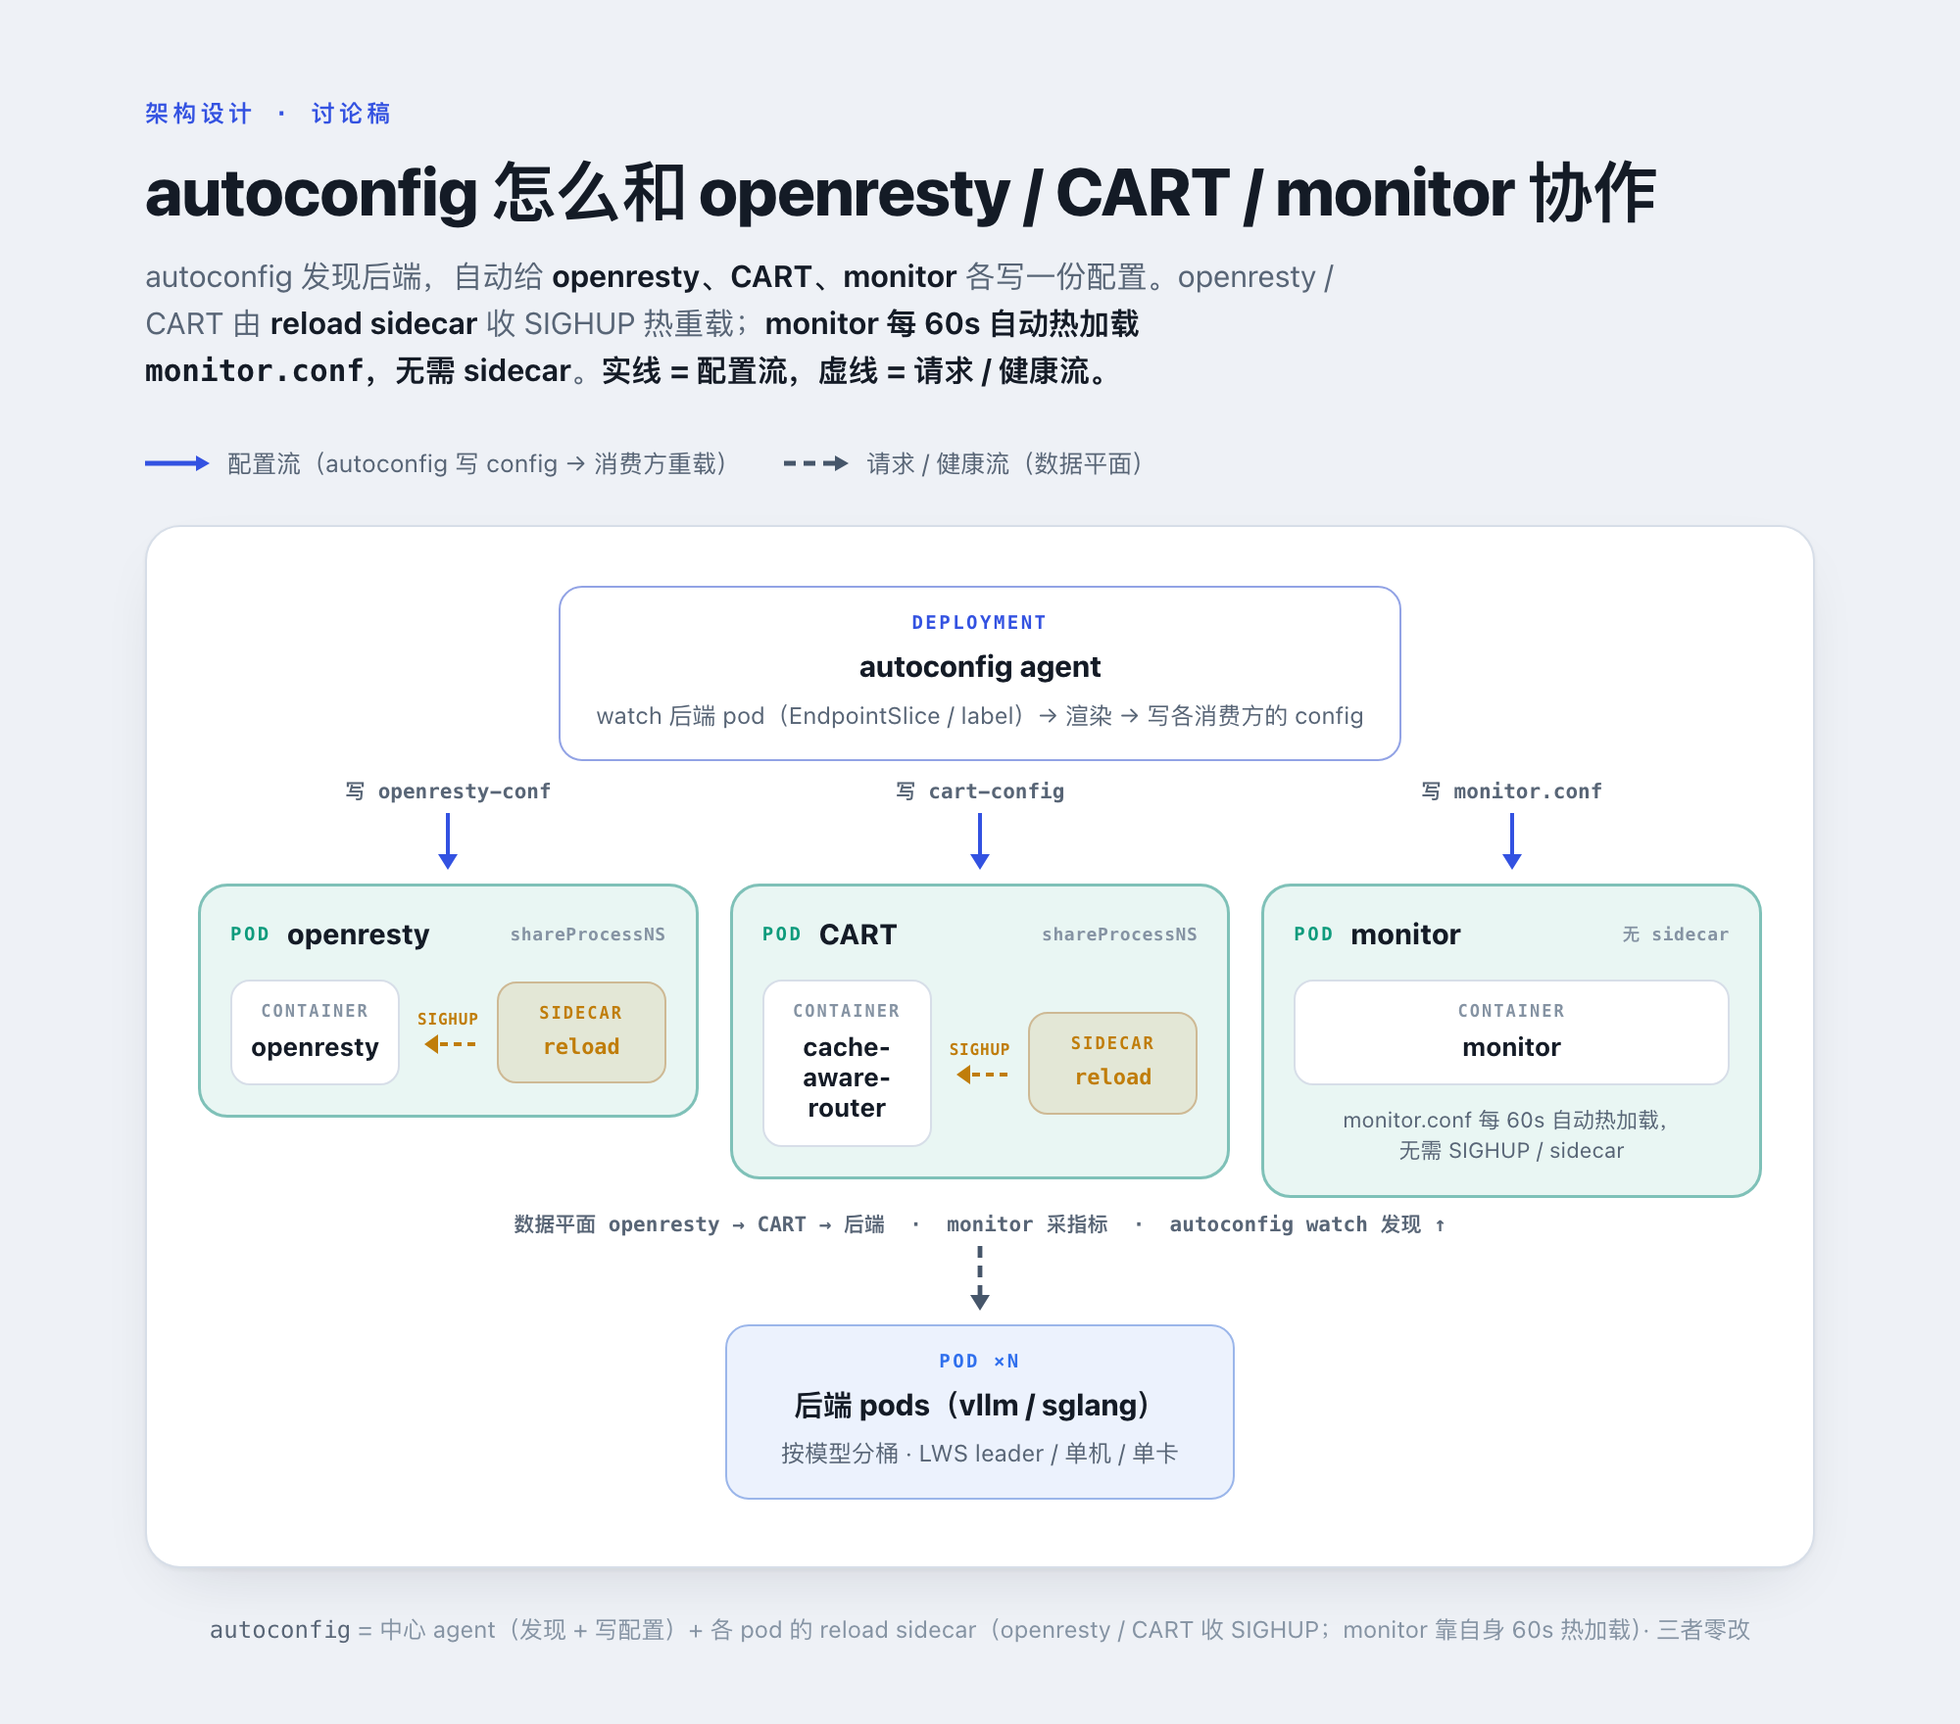
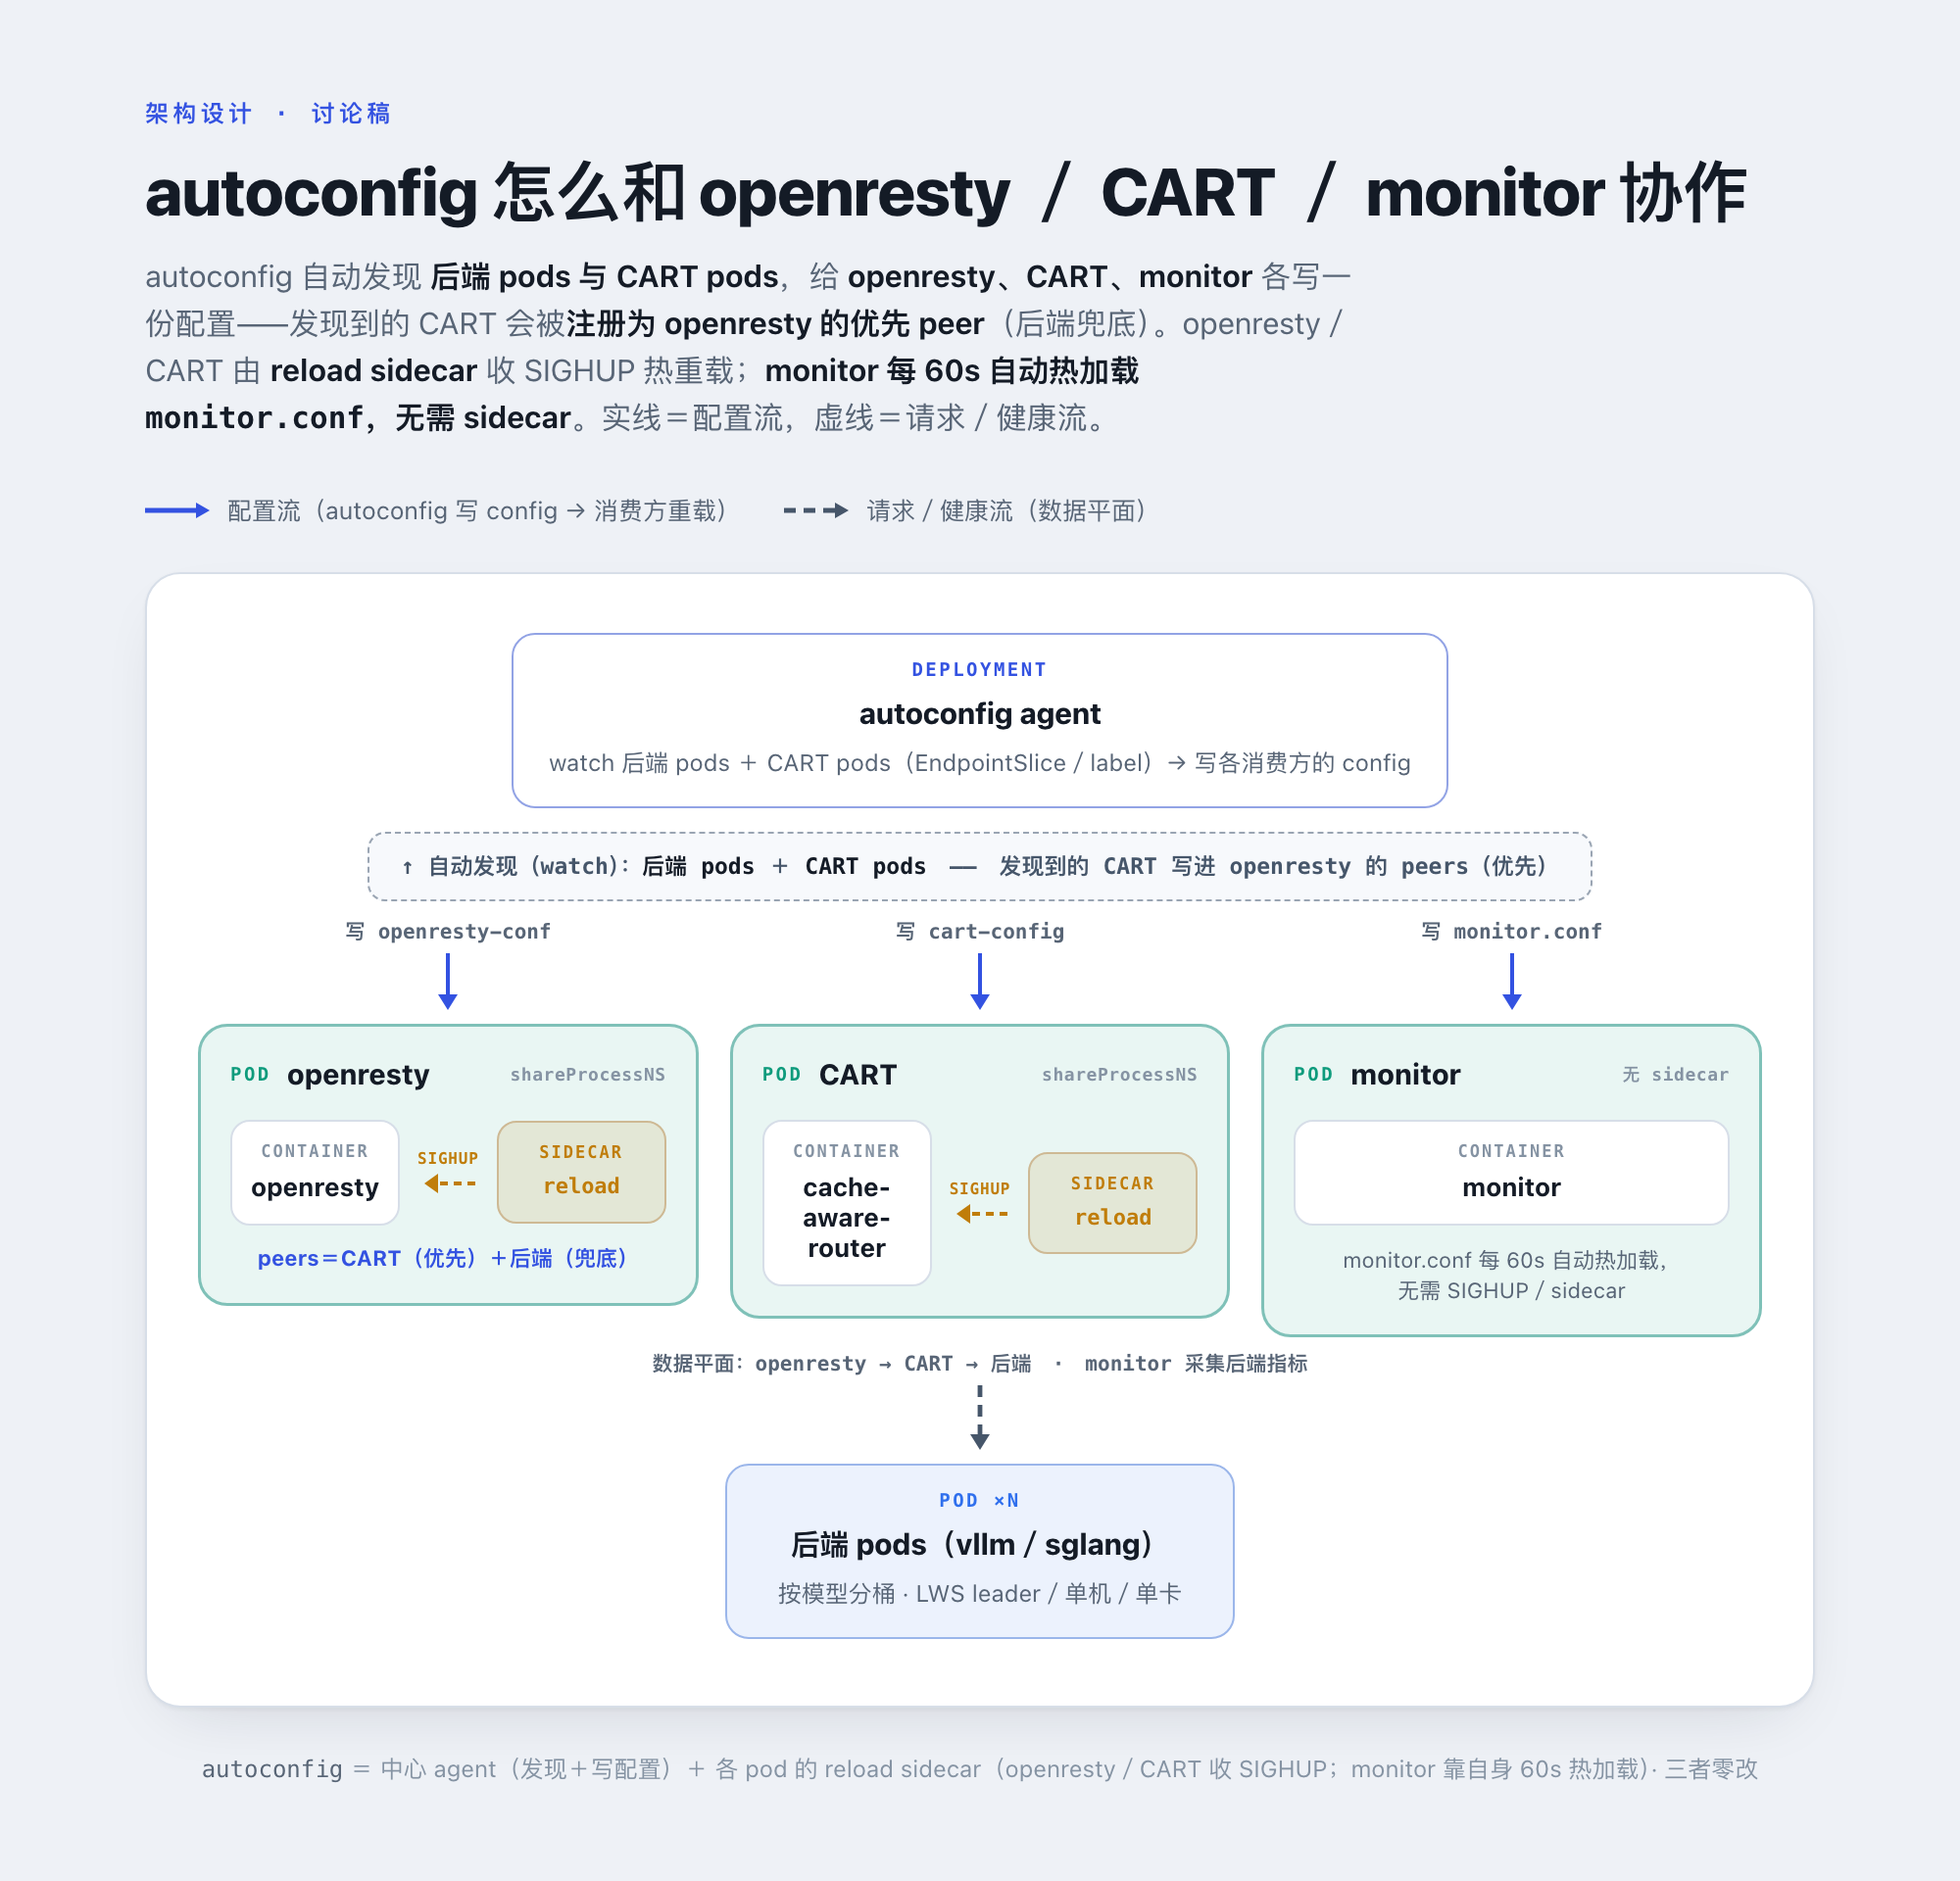
docs: 架构图显式画出「autoconfig 自动发现 CART → 注册进 openresty peers」+ 标点改中文全角

diff --git a/docs/architecture.html b/docs/architecture.html
@@ -110,6 +110,10 @@
   .col .pod{width:100%;min-width:0;flex:none}
   .ctrs.one{grid-template-columns:1fr}
   .mnote{margin-top:10px;font-size:11px;color:var(--muted);text-align:center;line-height:1.4}
+  .discover{margin:12px auto 0;font:600 11.5px/1.5 ui-monospace,monospace;color:var(--data);text-align:center;
+    border:1px dashed color-mix(in srgb,var(--data) 42%,var(--line));border-radius:9px;padding:8px 16px;max-width:680px;background:var(--surface2)}
+  .discover b{color:var(--ink)}
+  .pod .mnote.peers{color:var(--accent);font-weight:700;margin-top:9px}
 
   footer{margin-top:22px;font-size:12px;color:var(--faint);text-align:center}
   footer .mono{color:var(--muted)}
@@ -123,12 +127,12 @@
 
 <div class="wrap">
   <p class="eyebrow">架构设计 · 讨论稿</p>
-  <h1>autoconfig 怎么和 openresty / CART / monitor 协作</h1>
-  <p class="lede">autoconfig 发现后端，自动给 <b>openresty、CART、monitor</b> 各写一份配置。openresty / CART 由 <b>reload sidecar</b> 收 SIGHUP 热重载；<b>monitor 每 60s 自动热加载 <span class="mono">monitor.conf</span>，无需 sidecar</b>。<b>实线 = 配置流，虚线 = 请求 / 健康流。</b></p>
+  <h1>autoconfig 怎么和 openresty ／ CART ／ monitor 协作</h1>
+  <p class="lede">autoconfig 自动发现 <b>后端 pods 与 CART pods</b>，给 <b>openresty、CART、monitor</b> 各写一份配置——发现到的 CART 会被<b>注册为 openresty 的优先 peer</b>（后端兜底）。openresty／CART 由 <b>reload sidecar</b> 收 SIGHUP 热重载；<b>monitor 每 60s 自动热加载 <span class="mono">monitor.conf</span>，无需 sidecar</b>。实线＝配置流，虚线＝请求／健康流。</p>
 
   <div class="legend">
     <span><svg width="34" height="10" viewBox="0 0 34 10"><line x1="0" y1="5" x2="26" y2="5" stroke="var(--accent)" stroke-width="2.4"/><path d="M26,1 L33,5 L26,9 Z" fill="var(--accent)"/></svg>配置流（autoconfig 写 config → 消费方重载）</span>
-    <span><svg width="34" height="10" viewBox="0 0 34 10"><line x1="0" y1="5" x2="26" y2="5" stroke="var(--data)" stroke-width="2.4" stroke-dasharray="6 4"/><path d="M26,1 L33,5 L26,9 Z" fill="var(--data)"/></svg>请求 / 健康流（数据平面）</span>
+    <span><svg width="34" height="10" viewBox="0 0 34 10"><line x1="0" y1="5" x2="26" y2="5" stroke="var(--data)" stroke-width="2.4" stroke-dasharray="6 4"/><path d="M26,1 L33,5 L26,9 Z" fill="var(--data)"/></svg>请求／健康流（数据平面）</span>
   </div>
 
   <div class="scene">
@@ -137,10 +141,13 @@
     <div class="box agent">
       <span class="kind">deployment</span>
       <div class="nm">autoconfig agent</div>
-      <div class="desc">watch 后端 pod（EndpointSlice / label）→ 渲染 → 写各消费方的 config</div>
+      <div class="desc">watch 后端 pods ＋ CART pods（EndpointSlice／label）→ 写各消费方的 config</div>
     </div>
 
-    <!-- three consumers: openresty / CART / monitor -->
+    <!-- discovery annotation: autoconfig 也发现 CART -->
+    <div class="discover">↑ 自动发现（watch）：<b>后端 pods</b> ＋ <b>CART pods</b>　——　发现到的 CART 写进 openresty 的 peers（优先）</div>
+
+    <!-- three consumers: openresty ／ CART ／ monitor -->
     <div class="cols3">
 
       <div class="col">
@@ -153,6 +160,7 @@
             <div class="hup"><span class="hl">SIGHUP</span><svg width="28" height="12" viewBox="0 0 28 12"><line x1="28" y1="6" x2="9" y2="6" stroke="currentColor" stroke-width="2" stroke-dasharray="4 3"/><path d="M9,1 L2,6 L9,11 Z" fill="currentColor"/></svg></div>
             <div class="ctr rl"><span class="clab">sidecar</span><div class="cnm">reload</div></div>
           </div>
+          <div class="mnote peers">peers＝CART（优先）＋后端（兜底）</div>
         </div>
       </div>
 
@@ -177,24 +185,24 @@
           <div class="ctrs one">
             <div class="ctr app"><span class="clab">container</span><div class="cnm">monitor</div></div>
           </div>
-          <div class="mnote">monitor.conf 每 60s 自动热加载，<br>无需 SIGHUP / sidecar</div>
+          <div class="mnote">monitor.conf 每 60s 自动热加载，<br>无需 SIGHUP／sidecar</div>
         </div>
       </div>
 
     </div>
 
     <!-- data / health arrow down to backends -->
-    <div class="down data"><span class="l">数据平面 openresty → CART → 后端 &nbsp;·&nbsp; monitor 采指标 &nbsp;·&nbsp; autoconfig watch 发现 ↑</span>
+    <div class="down data"><span class="l">数据平面：openresty → CART → 后端　·　monitor 采集后端指标</span>
       <svg width="12" height="34" viewBox="0 0 12 34"><line x1="6" y1="0" x2="6" y2="25" stroke="currentColor" stroke-width="2.4" stroke-dasharray="6 4"/><path d="M1,25 L6,33 L11,25 Z" fill="currentColor"/></svg></div>
 
     <!-- backends -->
     <div class="box be">
       <span class="kind">pod ×N</span>
-      <div class="nm">后端 pods（vllm / sglang）</div>
-      <div class="desc">按模型分桶 · LWS leader / 单机 / 单卡</div>
+      <div class="nm">后端 pods（vllm／sglang）</div>
+      <div class="desc">按模型分桶 · LWS leader／单机／单卡</div>
     </div>
 
   </div>
 
-  <footer><span class="mono">autoconfig</span> = 中心 agent（发现 + 写配置）+ 各 pod 的 reload sidecar（openresty / CART 收 SIGHUP；monitor 靠自身 60s 热加载）· 三者零改</footer>
+  <footer><span class="mono">autoconfig</span> ＝ 中心 agent（发现＋写配置）＋ 各 pod 的 reload sidecar（openresty／CART 收 SIGHUP；monitor 靠自身 60s 热加载）· 三者零改</footer>
 </div>
